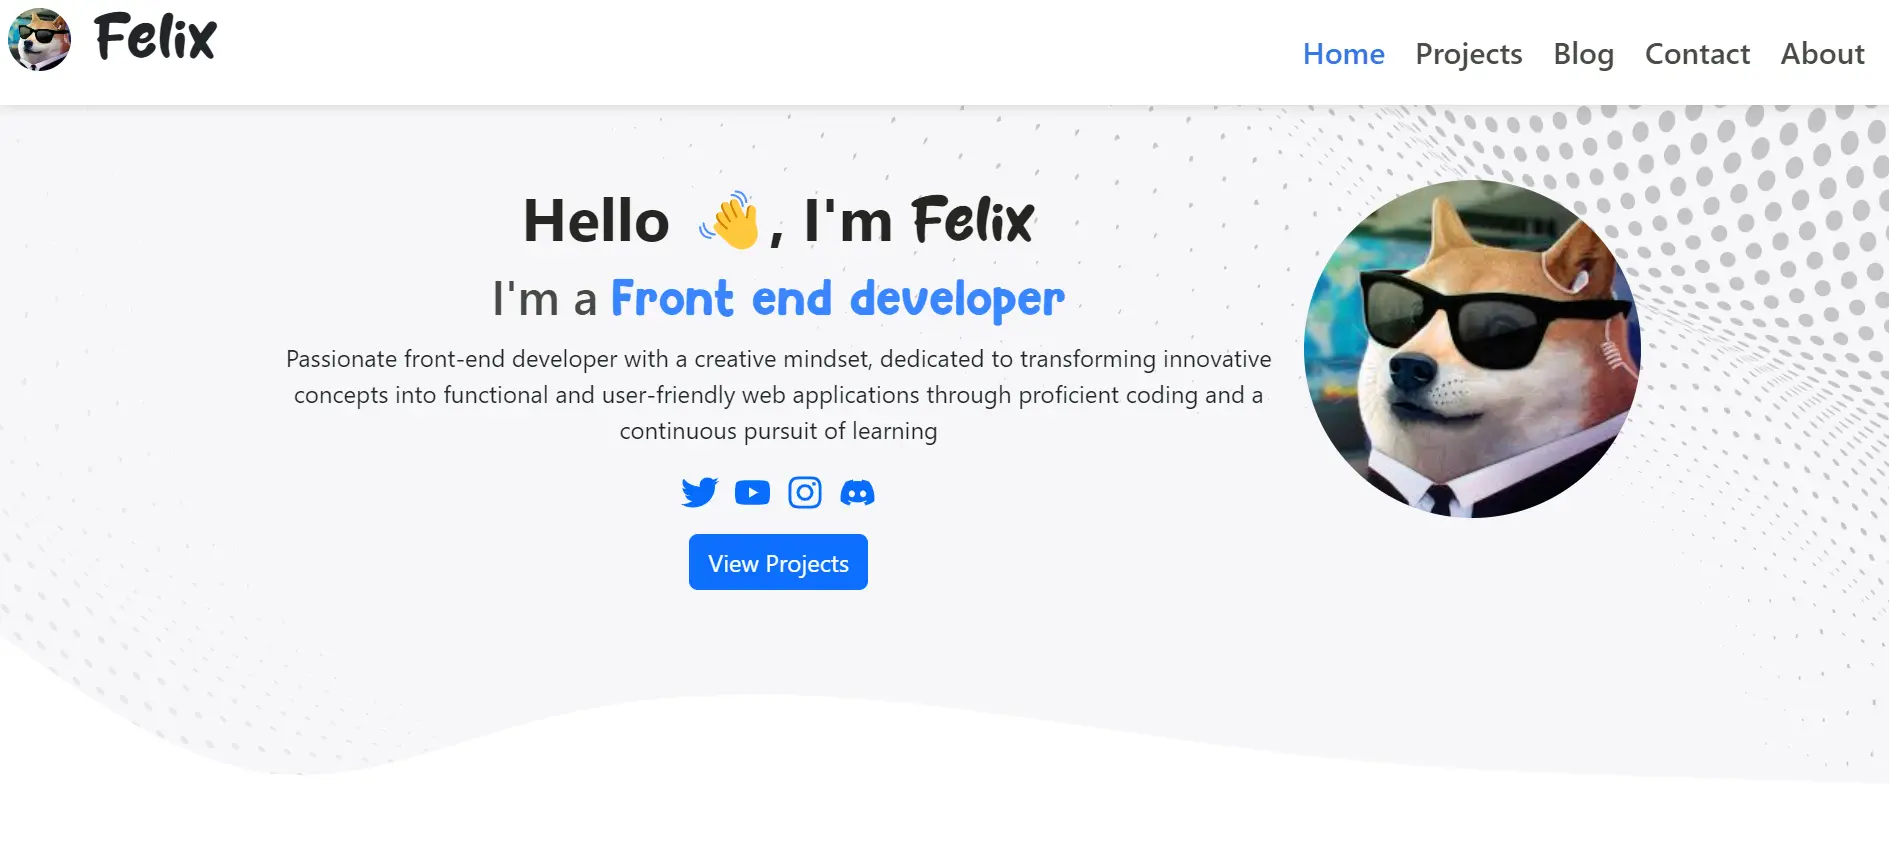
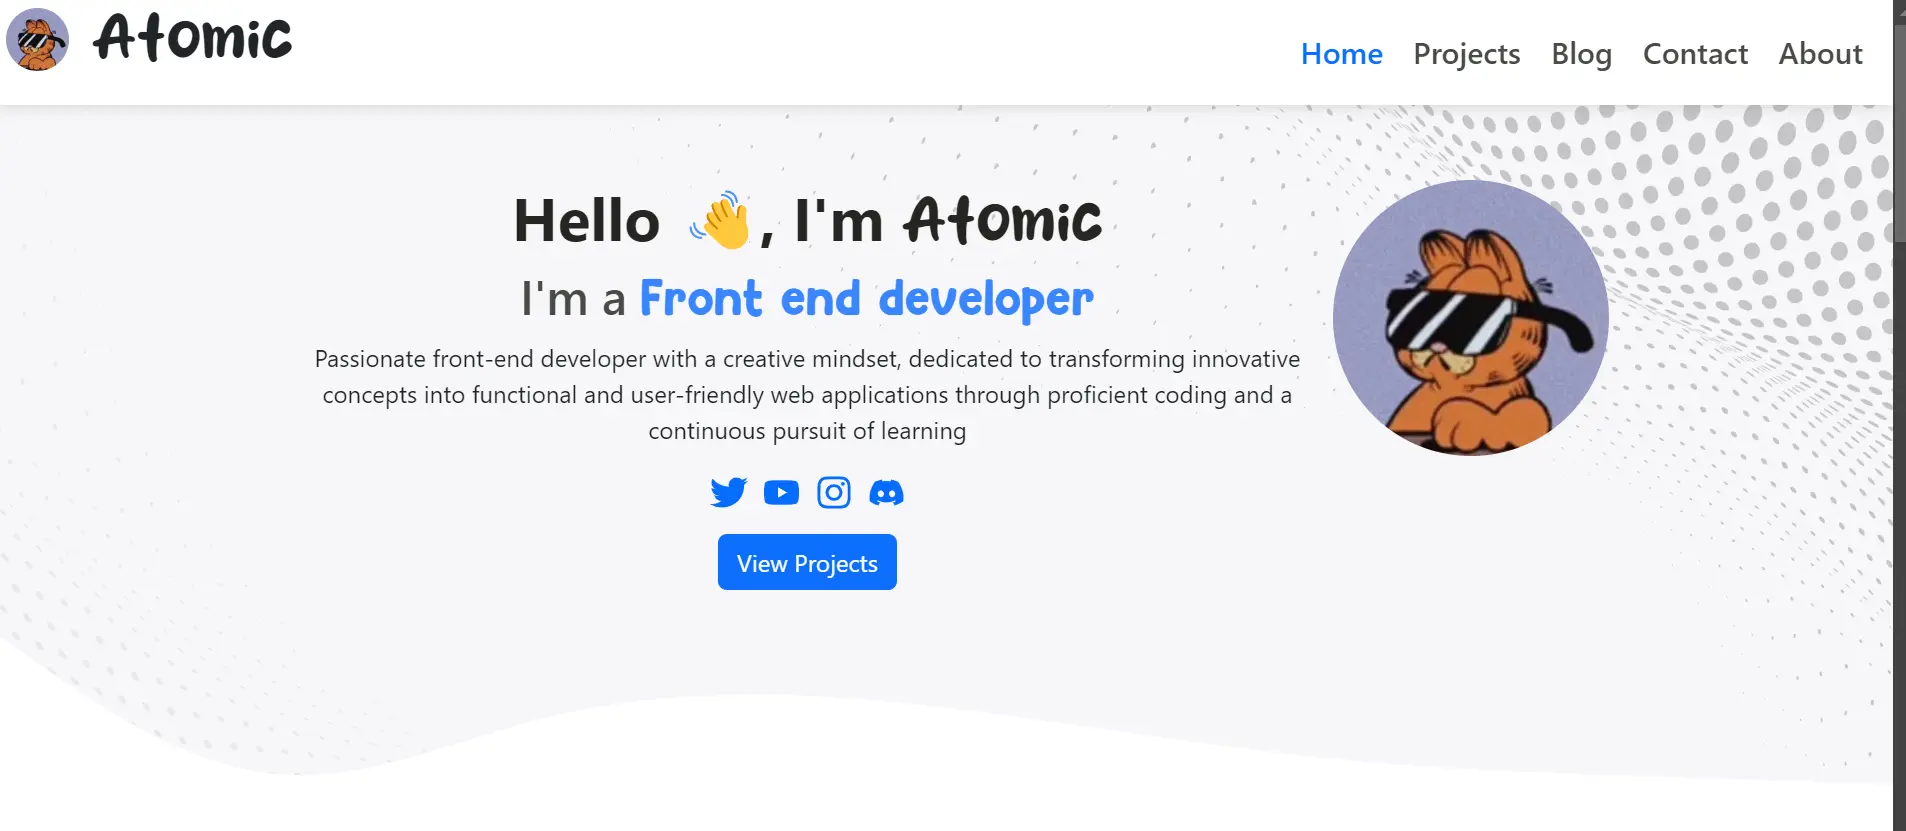
#

Changed region(s): [[0.1562, 0.0, 1.0, 1.0], [0.2499, 0.2106, 0.5934, 0.3008], [0.0, 0.0, 0.1562, 0.0903]]

diff --git a/src/componets/homeInfo.jsx b/src/componets/homeInfo.jsx
@@ -18,7 +18,7 @@ function HomeInfo() {
         <h1>About Me</h1>
       </div>
       <hr></hr>
-      <p>👋 Hello there! I'm Felix, a passionate and dedicated front-end developer with a love for turning innovative ideas into reality through code. I thrive in the dynamic world of web development, constantly seeking new challenges and opportunities to expand my skills.</p>
+      <p>👋 Hello there! I'm Atomic, a passionate and dedicated front-end developer with a love for turning innovative ideas into reality through code. I thrive in the dynamic world of web development, constantly seeking new challenges and opportunities to expand my skills.</p>
       <a href='/about'><button className="btn btn-primary">About Me</button></a>
       <div className="icon-list">
         <img src={HtmlIcon} alt="html 5" draggable='false'></img>

diff --git a/src/componets/About/aboutContent.jsx b/src/componets/About/aboutContent.jsx
@@ -17,7 +17,7 @@ function AboutContent(){
       <div className="about-text">
       <ConstructAboutPara
         altTxt='Paragrapth one'
-        Para="👋 Hello there! Im Felix, a passionate and dedicated front-end developer with a love for turning innovative ideas into reality through code. I thrive in the dynamic world of software development, constantly seeking new challenges and opportunities to expand my skills"
+        Para="👋 Hello there! Im Atomic, a passionate and dedicated front-end developer with a love for turning innovative ideas into reality through code. I thrive in the dynamic world of software development, constantly seeking new challenges and opportunities to expand my skills"
       />
       <ConstructAboutPara
         altTxt='Paragrapth three'

diff --git a/src/componets/main/footer.jsx b/src/componets/main/footer.jsx
@@ -8,7 +8,7 @@ function Footer(){
     <div className="footer">
       <div className="footer-content">
         <div className="footer-col-2">
-          <h2>Felix</h2>
+          <h2>Atomic</h2>
           <p>a passionate and dedicated front-end developer with a love for turning innovative ideas into reality through code</p>
         </div>
         <div className="footer-col-2">
@@ -23,7 +23,7 @@ function Footer(){
         </div>
         <hr></hr>
         <div className="footer-row-2">
-          <p>© Copyright 2024 | Made by <span><a href='https://github.com/AtomicExpresso'>Felix</a></span></p>
+          <p>© Copyright 2024 | Made by <span><a href='https://github.com/AtomicExpresso'>Atomic</a></span></p>
         </div>
     </div>
   )

diff --git a/src/componets/homeHero.jsx b/src/componets/homeHero.jsx
@@ -21,7 +21,7 @@ function HomeHero() {
     <div className="hero-container">
       <div className='hero-group'>
         <div className="hero-col-1">
-          <h1>Hello 👋, I'm <span>Felix</span></h1>
+          <h1>Hello 👋, I'm <span>Atomic</span></h1>
           <h2>I'm a <span>Front end developer</span></h2>
           <p>Passionate front-end developer with a creative mindset, dedicated to transforming innovative concepts into functional and user-friendly web applications through proficient coding and a continuous pursuit of learning</p>
           <div className="hero-social-links">

diff --git a/src/componets/main/navBar.jsx b/src/componets/main/navBar.jsx
@@ -19,7 +19,7 @@ function Navbar() {
       <div className="nav-bar">
       <div className="nav-row">
         <img src={Logo} draggable='false' alt="Navigation logo"></img>
-        <h1>Felix</h1>
+        <h1>Atomic</h1>
       </div>
       <nav className="non-mobile-nav">
         <ul>
